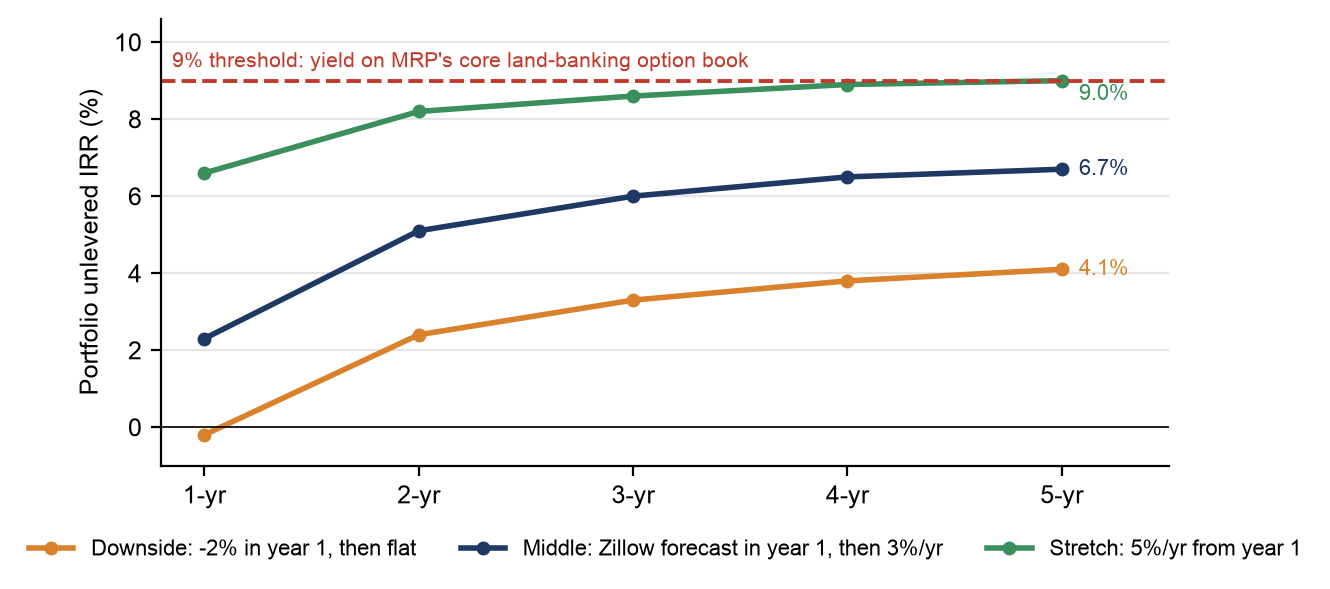
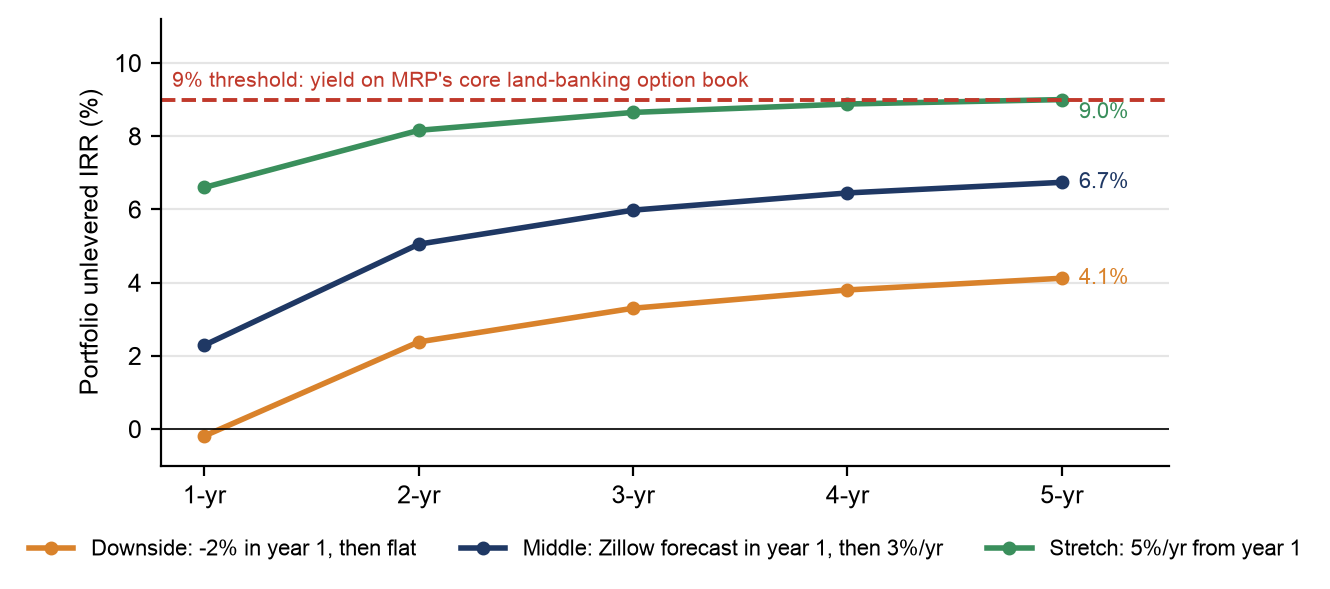
Note: IRRs at deed prices (Exhibit 7) and at a 20% discount with no gain on purchase (Exhibit 7b); discount sensitivity moved to Exhibit 7c

Changed region(s): [[0.0925, 0.0611, 0.894, 0.6418], [0.0925, 0.6723, 0.894, 0.7334], [0.2158, 0.6418, 0.2466, 0.6723]]

diff --git a/note/README.md b/note/README.md
@@ -111,19 +111,26 @@ Source: Evergreen Live listings (Oct 2026), county deed records
 
 Source: County deed records, Evergreen Live listings (Oct 2026), Invitation Homes investor presentation (Nov 2025)
 
-**Returns.** We estimate the portfolio unlevered IRR under three home price scenarios (Exhibit 7), assuming a 60% NOI margin and 3% annual rent growth after year one. In a downside scenario, with home prices down 2% in year one and flat thereafter, the IRR is ~3.3% over three years and ~4.1% over five. In a middle scenario, with Zillow's 12-month zip-code forecast in year one (~+0.6% on average) and 3% a year thereafter, the IRR is ~6.0–6.7% over a 3–5 year hold. In a stretch scenario of 5% home price growth every year, the 5-year IRR reaches ~9.0%, in line with the ~9% weighted-average yield on the monthly option payments across MRP's land-banking portfolio. These IRRs assume MRP paid the deed price. If its true cost was below the deed price, returns rise meaningfully, largely because the homes would have been bought below market value: at a 10% discount, the 5-year IRR is ~9.2% in our middle scenario and ~6.6% in the downside scenario (Exhibit 7b). The main risk is the home-price outlook. On our zip-code-weighted index of Millrose's markets (new-home community zip codes, weighted by Millrose's land dollars by state), home values have been flat since mid-2022 and are ~2% below their February 2025 peak, while the US index has kept rising (Exhibit 8).
+**Returns.** We estimate the portfolio unlevered IRR under three home price scenarios (Exhibit 7), assuming a 60% NOI margin and 3% annual rent growth after year one. In a downside scenario, with home prices down 2% in year one and flat thereafter, the IRR is ~3.3% over three years and ~4.1% over five. In a middle scenario, with Zillow's 12-month zip-code forecast in year one (~+0.6% on average) and 3% a year thereafter, the IRR is ~6.0–6.7% over a 3–5 year hold. In a stretch scenario of 5% home price growth every year, the 5-year IRR reaches ~9.0%, in line with the ~9% weighted-average yield on the monthly option payments across MRP's land-banking portfolio. These IRRs assume MRP paid the deed price. If its true cost was below the deed price, and assuming retail buyers receive similar discounts (so the homes are worth what MRP paid, with no gain on purchase), returns rise modestly through the higher yield on cost: at a 10% discount, the 5-year IRR is ~7.3% in our middle scenario and ~4.7% in the downside scenario (Exhibit 7c), and at a 20% discount, ~5.4–10.2% across our three scenarios (Exhibit 7b). The main risk is the home-price outlook. On our zip-code-weighted index of Millrose's markets (new-home community zip codes, weighted by Millrose's land dollars by state), home values have been flat since mid-2022 and are ~2% below their February 2025 peak, while the US index has kept rising (Exhibit 8).
 
-**Exhibit 7: Unlevered IRR of ~4-9% over five years depending on home prices; ~6.7% in our middle scenario**
-*Portfolio unlevered IRR by hold period for 528 homes with a recorded price, asking rent and Zillow zip forecast; 60% NOI margin, 3% rent growth after year 1. Home price scenarios as labeled.*
+**Exhibit 7: Unlevered IRR of ~4-9% over five years at deed prices depending on home prices; ~6.7% in our middle scenario**
+*Portfolio unlevered IRR by hold period for 528 homes with a recorded price, asking rent and Zillow zip forecast; cost = deed price; 60% NOI margin, 3% rent growth after year 1, 3% selling costs. Home price scenarios as labeled.*
 
 ![Exhibit 7](exhibits/ex7.png)
 
 Source: County deed records, Evergreen Live listings, Zillow
 
-**Exhibit 7b: At a 10-15% discount to deed prices, MRP would need only ~1-2% annual home price growth to reach a 9% IRR**
-*Left: constant annual home price growth (from year 1) needed for a 9% portfolio 5-year unlevered IRR. Right: 5-year IRR in our middle and downside scenarios (Exhibit 7). By discount of MRP's cost to the recorded deed price; home values start at the deed price; 528 homes; 60% NOI margin, 3% rent growth, 3% selling costs.*
+**Exhibit 7b: At a 20% discount to deed prices, 5-year unlevered IRRs rise to ~5-10%; ~8.0% in our middle scenario**
+*Same as Exhibit 7, but with MRP's cost 20% below the deed price and home values starting at that cost (retail buyers assumed to receive similar discounts, so no gain on purchase).*
 
 ![Exhibit 7b](exhibits/ex7b.png)
+
+Source: County deed records, Evergreen Live listings, Zillow, Invitation Homes investor presentation (Nov 2025)
+
+**Exhibit 7c: Even at a 20% discount to deed prices, MRP would need ~3.7% annual home price growth to reach a 9% IRR**
+*Left: constant annual home price growth (from year 1) needed for a 9% portfolio 5-year unlevered IRR. Right: 5-year IRR in our middle and downside scenarios (Exhibits 7 and 7b). By discount of MRP's cost to the recorded deed price; home values start at MRP's cost (retail buyers assumed to receive similar discounts); 528 homes; 60% NOI margin, 3% rent growth, 3% selling costs.*
+
+![Exhibit 7c](exhibits/ex7c.png)
 
 Source: County deed records, Evergreen Live listings, Zillow, Invitation Homes investor presentation (Nov 2025)
 
@@ -134,9 +141,9 @@ Source: County deed records, Evergreen Live listings, Zillow, Invitation Homes i
 
 Source: Zillow, Millrose filings, company websites
 
-Put differently, on deed prices the homes would need home price appreciation of ~5% a year to match the ~9% weighted-average yield MRP earns on monthly option payments across its land-banking portfolio, versus a ~6.7% 5-year IRR in our middle scenario. At a 5% discount to deed prices, the required appreciation falls to ~3.7% a year; at 10%, ~2.3%; at 15%, under 1%; and at 20%, the homes would reach a 9% IRR even with slightly falling home prices (Exhibit 7b). Average gross yields of ~8.2% vary by state, with the Southeast highest.
+Put differently, on deed prices the homes would need home price appreciation of ~5% a year to match the ~9% weighted-average yield MRP earns on monthly option payments across its land-banking portfolio, versus a ~6.7% 5-year IRR in our middle scenario. Assuming retail buyers receive similar discounts, the required appreciation falls only modestly with a discount to deed prices: to ~4.7% a year at 5%, ~4.4% at 10%, ~4.1% at 15% and ~3.7% at 20% (Exhibit 7c). Average gross yields of ~8.2% vary by state, with the Southeast highest.
 
-**Bottom line on rental homes: a small pilot that appears to be paused.** We estimate Millrose has spent ~$310mn on ~1,100 homes, ~3% of its homesite book, bought at a median ~3% below the last asking price, mostly in the final week of August. The homes are being leased up rather than acquired tenanted, at gross yields of ~8% and NOI yields of ~4–5.5% on deed prices (~5.5–5.8% if MRP bought at 10–15% discounts like those Invitation Homes has disclosed on builder product), and 5-year unlevered IRRs of ~4–9% on deed prices depending on home prices (~6.5–13% at a 10–15% discount). The program appears to have paused, and even assuming this pilot goes badly, the impact is small: in an extreme scenario in which home prices fall 5% a year for five years (~23% cumulatively), we estimate the hit to MRP's book value would be about $70mn, ~1% of book value, or less than $0.50 per share, before any rental income. If the scale of investments in rental homes is limited to what has already been invested, we do not see this pilot rental home investments as a material risk to book value.
+**Bottom line on rental homes: a small pilot that appears to be paused.** We estimate Millrose has spent ~$310mn on ~1,100 homes, ~3% of its homesite book, bought at a median ~3% below the last asking price, mostly in the final week of August. The homes are being leased up rather than acquired tenanted, at gross yields of ~8% and NOI yields of ~4–5.5% on deed prices (~5.5–5.8% if MRP bought at 10–15% discounts like those Invitation Homes has disclosed on builder product), and 5-year unlevered IRRs of ~4–9% on deed prices depending on home prices (~5–10% at a 10–15% discount). The program appears to have paused, and even assuming this pilot goes badly, the impact is small: in an extreme scenario in which home prices fall 5% a year for five years (~23% cumulatively), we estimate the hit to MRP's book value would be about $70mn, ~1% of book value, or less than $0.50 per share, before any rental income. If the scale of investments in rental homes is limited to what has already been invested, we do not see this pilot rental home investments as a material risk to book value.
 
 ---
 
@@ -156,8 +163,9 @@ Each exhibit has a data file in [`exhibits/`](exhibits/) and the chart image use
 | 5c | Asking rents vs. AMH and Invitation Homes, same metros | [`ex5c_rents_vs_peers.tsv`](exhibits/ex5c_rents_vs_peers.tsv) | Clustered column (Metro; Millrose, AMH and Invitation Homes rents); columns H–I give Millrose's gap (formulas) |
 | 6 | Gross yield and estimated NOI yield by state | [`ex6_yields_by_state.tsv`](exhibits/ex6_yields_by_state.tsv) | Combo: gross yield as columns, NOI yield (formula = gross × 60%) as markers only |
 | 6b | Gross and NOI yield by discount to deed price | [`ex6b_yields_by_discount.tsv`](exhibits/ex6b_yields_by_discount.tsv) | Clustered column (discount; gross and NOI yield, both formulas) |
-| 7 | Unlevered IRR by hold period, three scenarios | [`ex7_irr_scenarios.tsv`](exhibits/ex7_irr_scenarios.tsv) | Line with markers; format the "9% core option-book yield" series as a red dashed line with no markers |
-| 7b | Home price growth needed for a 9% IRR, and 5-yr IRR, by discount to deed price | [`ex7b_irr_by_discount.tsv`](exhibits/ex7b_irr_by_discount.tsv) | Two charts: clustered column (column B) and line with markers (columns C–D); add a 9% horizontal line to the second |
+| 7 | Unlevered IRR by hold period, three scenarios, at deed prices | [`ex7_irr_scenarios.tsv`](exhibits/ex7_irr_scenarios.tsv) | Line with markers; format the "9% core option-book yield" series as a red dashed line with no markers |
+| 7b | Same, at a 20% discount to deed prices | [`ex7b_irr_20pct_discount.tsv`](exhibits/ex7b_irr_20pct_discount.tsv) | As for Exhibit 7 |
+| 7c | Home price growth needed for a 9% IRR, and 5-yr IRR, by discount to deed price | [`ex7c_irr_by_discount.tsv`](exhibits/ex7c_irr_by_discount.tsv) | Two charts: clustered column (column B) and line with markers (columns C–D); add a 9% horizontal line to the second |
 | 8 | Zillow home value index, Millrose markets vs. US | [`ex8_home_value_index.tsv`](exhibits/ex8_home_value_index.tsv) | Line (Month on the horizontal axis) |
 | 9 | Rental-home spend vs. homesite book | [`ex9_rental_vs_book.tsv`](exhibits/ex9_rental_vs_book.tsv) | Clustered bar ($ billions) |
 
@@ -169,7 +177,7 @@ Each exhibit has a data file in [`exhibits/`](exhibits/) and the chart image use
 4. Select the filled cells and choose **Insert → Recommended Charts**, then pick the chart type listed above.
 5. Format percentage columns as **%** if they show decimals (e.g. 0.0866 = 8.66%).
 6. **Exhibit 6 only:** right-click the chart → **Change Chart Type → Combo**. Set the NOI yield series to **Line with Markers**, then set its line to **No line**.
-7. **Exhibit 7 only:** right-click the 9% series → **Format Data Series**. Set the line to red and dashed, and set markers to **None**.
+7. **Exhibits 7 and 7b:** right-click the 9% series → **Format Data Series**. Set the line to red and dashed, and set markers to **None**.
 
 **Where the numbers come from:** home-level data for Exhibits 1–6 is in [`../mrp_liberty_homes.csv`](../mrp_liberty_homes.csv), and the density data and its Excel checks are in [`../density/`](../density/). Weekly pace and county record checks are in [`../pace/`](../pace/). Return inputs are in [`../irr/`](../irr/), and the Zillow index and forecasts are in [`../zillow/`](../zillow/).
 
